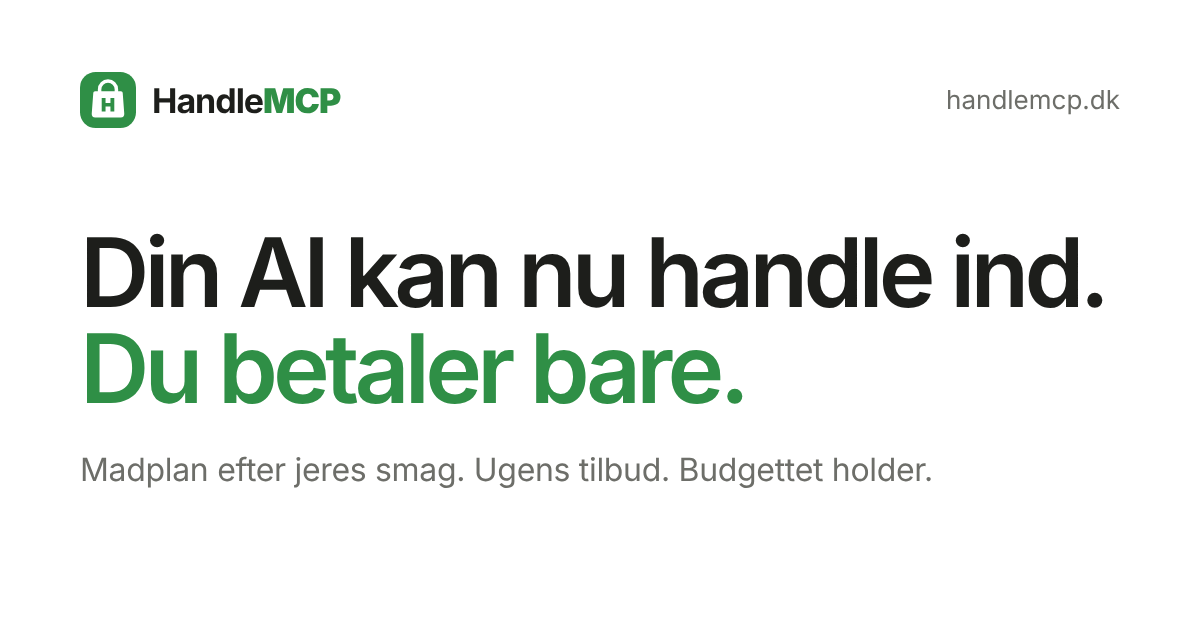
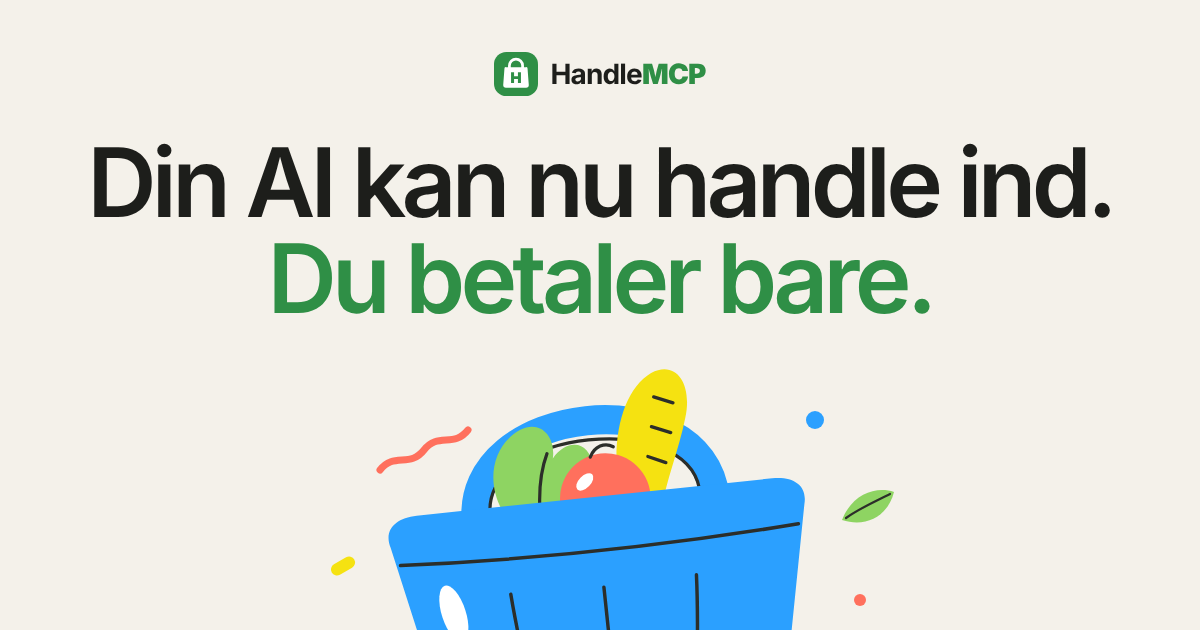
🔍 Centre the share image and add a basket illustration

diff --git a/docs/index.html b/docs/index.html
@@ -17,7 +17,7 @@
 <meta property="og:image" content="https://handlemcp.dk/og.png">
 <meta property="og:image:width" content="1200">
 <meta property="og:image:height" content="630">
-<meta property="og:image:alt" content="HandleMCP. Din AI kan nu handle ind. Du betaler bare. Madplan efter jeres smag. Ugens tilbud. Budgettet holder.">
+<meta property="og:image:alt" content="HandleMCP. Din AI kan nu handle ind. Du betaler bare. En blå indkøbskurv med grønt, tomat og brød.">
 <meta name="twitter:card" content="summary_large_image">
 <meta name="twitter:title" content="HandleMCP: din AI kan nu handle ind">
 <meta name="twitter:description" content="Madplan efter jeres smag, ugens tilbud hos nemlig.com og BilkaToGo, og et budget der holder. Din AI fylder kurven. Du betaler bare.">
